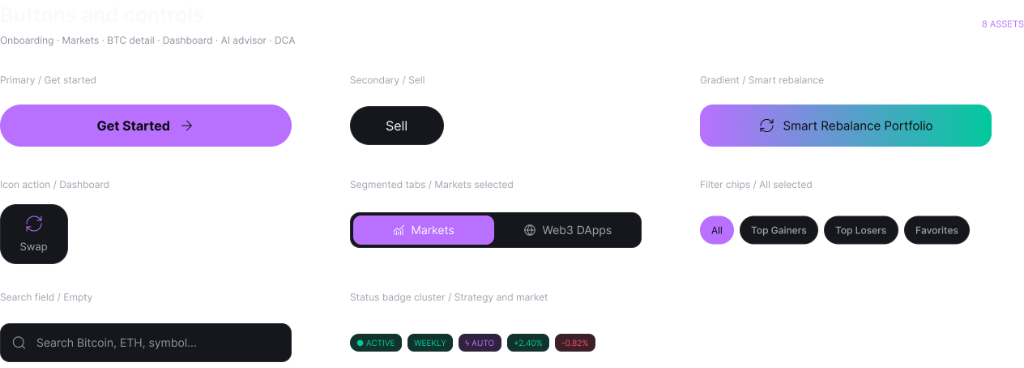
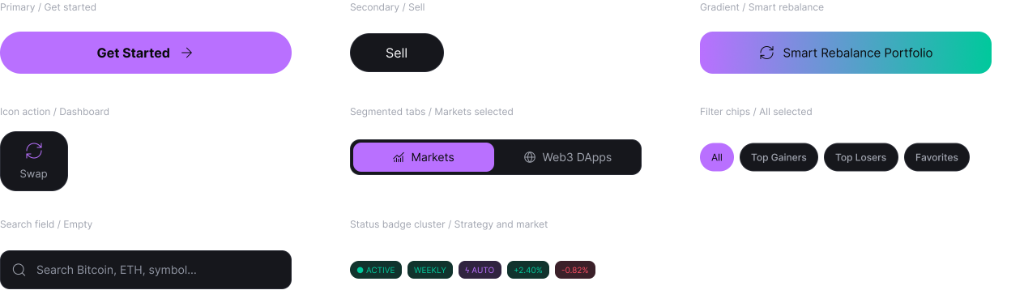
Update Buttons & Controls component sheet with enhanced quality and aspect ratio

diff --git a/bitcobit-case-study.html b/bitcobit-case-study.html
@@ -435,7 +435,7 @@ body{padding-top:0!important;margin:0!important}
 
   <!-- Interactive Component Tab Switcher -->
   <div class="comp-switcher" style="display:flex;gap:8px;justify-content:center;flex-wrap:wrap;margin:32px 0 24px">
-    <button type="button" class="comp-tab is-active" data-index="0" data-src="uploads/bitcobit-components-buttons.png" data-width="1024" data-height="368" data-caption="01 · Buttons &amp; Controls (8 Assets) · Primary CTA, secondary actions, gradient rebalancer, segmented tabs &amp; filter chips" style="padding:10px 18px;border-radius:999px;border:1px solid #7d42ab;background:#7d42ab;color:#ffffff;font:500 13px/1 Manrope,sans-serif;cursor:pointer;transition:all .2s ease">01 · Controls &amp; Buttons (8)</button>
+    <button type="button" class="comp-tab is-active" data-index="0" data-src="uploads/bitcobit-components-buttons.png" data-width="1024" data-height="295" data-caption="01 · Buttons &amp; Controls (8 Assets) · Primary CTA, secondary actions, gradient rebalancer, segmented tabs &amp; filter chips" style="padding:10px 18px;border-radius:999px;border:1px solid #7d42ab;background:#7d42ab;color:#ffffff;font:500 13px/1 Manrope,sans-serif;cursor:pointer;transition:all .2s ease">01 · Controls &amp; Buttons (8)</button>
     <button type="button" class="comp-tab" data-index="1" data-src="uploads/bitcobit-components-cards.png" data-width="1024" data-height="649" data-caption="02 · Cards &amp; Feed Lists (8 Assets) · Available balance, asset rows, holding cards, live execution prompt &amp; strategy modules" style="padding:10px 18px;border-radius:999px;border:1px solid #dedbd3;background:#ffffff;color:#57534a;font:500 13px/1 Manrope,sans-serif;cursor:pointer;transition:all .2s ease">02 · Cards &amp; Lists (8)</button>
     <button type="button" class="comp-tab" data-index="2" data-src="uploads/bitcobit-components-charts.png" data-width="1024" data-height="443" data-caption="03 · Charts &amp; Analytics (6 Assets) · BTC area trend, 83/100 radial health ring, allocation trim &amp; mini sparklines" style="padding:10px 18px;border-radius:999px;border:1px solid #dedbd3;background:#ffffff;color:#57534a;font:500 13px/1 Manrope,sans-serif;cursor:pointer;transition:all .2s ease">03 · Charts &amp; Analytics (6)</button>
     <button type="button" class="comp-tab" data-index="3" data-src="uploads/bitcobit-components-navigation.png" data-width="1024" data-height="518" data-caption="04 · Navigation &amp; Modals (5 Assets) · Floating OLED dock, draggable trade sheet, risk selectors &amp; step indicators" style="padding:10px 18px;border-radius:999px;border:1px solid #dedbd3;background:#ffffff;color:#57534a;font:500 13px/1 Manrope,sans-serif;cursor:pointer;transition:all .2s ease">04 · Navigation &amp; Sheets (5)</button>
@@ -446,7 +446,7 @@ body{padding-top:0!important;margin:0!important}
   <figure class="comp-stage" style="margin:0 auto 36px;text-align:center">
     <div style="background:#0e1015;border:1px solid #232630;border-radius:18px;padding:clamp(14px,2.5vw,26px);box-shadow:0 18px 40px rgba(0,0,0,.12);position:relative">
       <a id="comp-stage-link" href="uploads/bitcobit-components-buttons.png" target="_blank" rel="noopener" title="Click to view full-resolution component sheet" style="display:block;cursor:zoom-in;position:relative">
-        <img id="comp-stage-img" src="uploads/bitcobit-components-buttons.png" width="1024" height="368" loading="lazy" alt="BitcoBit design system components" style="display:block;width:100%;height:auto;border-radius:10px">
+        <img id="comp-stage-img" src="uploads/bitcobit-components-buttons.png" width="1024" height="295" loading="lazy" alt="BitcoBit design system components" style="display:block;width:100%;height:auto;border-radius:10px">
         <span style="position:absolute;bottom:14px;right:14px;padding:6px 12px;border-radius:999px;background:rgba(14,16,21,.85);backdrop-filter:blur(8px);border:1px solid rgba(255,255,255,.15);color:#ffffff;font:500 11px/1 Manrope,sans-serif;pointer-events:none;display:inline-flex;align-items:center;gap:6px">View full sheet ↗</span>
       </a>
     </div>
@@ -571,7 +571,7 @@ body{padding-top:0!important;margin:0!important}
         <h4 style="font:500 18px/1.3 Flecha,Georgia,serif;margin:0 0 8px">Buttons &amp; Interactive Controls</h4>
         <p style="font:400 13px/1.55 Manrope,sans-serif;color:#57534a;margin:0 0 14px;flex-grow:1">Primary CTA pills, secondary dismissals, gradient smart rebalancers, segmented tabs, chip filters, search inputs, and status badges.</p>
         <a href="uploads/bitcobit-components-buttons.png" target="_blank" rel="noopener" style="display:block;background:#0e1015;border-radius:10px;padding:10px;border:1px solid #232630;margin-bottom:14px">
-          <img src="uploads/bitcobit-components-buttons.png" width="1024" height="368" loading="lazy" alt="Buttons and controls preview" style="display:block;width:100%;height:auto;border-radius:6px">
+          <img src="uploads/bitcobit-components-buttons.png" width="1024" height="295" loading="lazy" alt="Buttons and controls preview" style="display:block;width:100%;height:auto;border-radius:6px">
         </a>
         <div style="display:flex;flex-wrap:wrap;gap:6px">
           <span style="font:500 11px/1 Manrope,sans-serif;background:#f2f5f8;color:#47505d;padding:5px 8px;border-radius:6px">Primary Lavender CTA</span>
